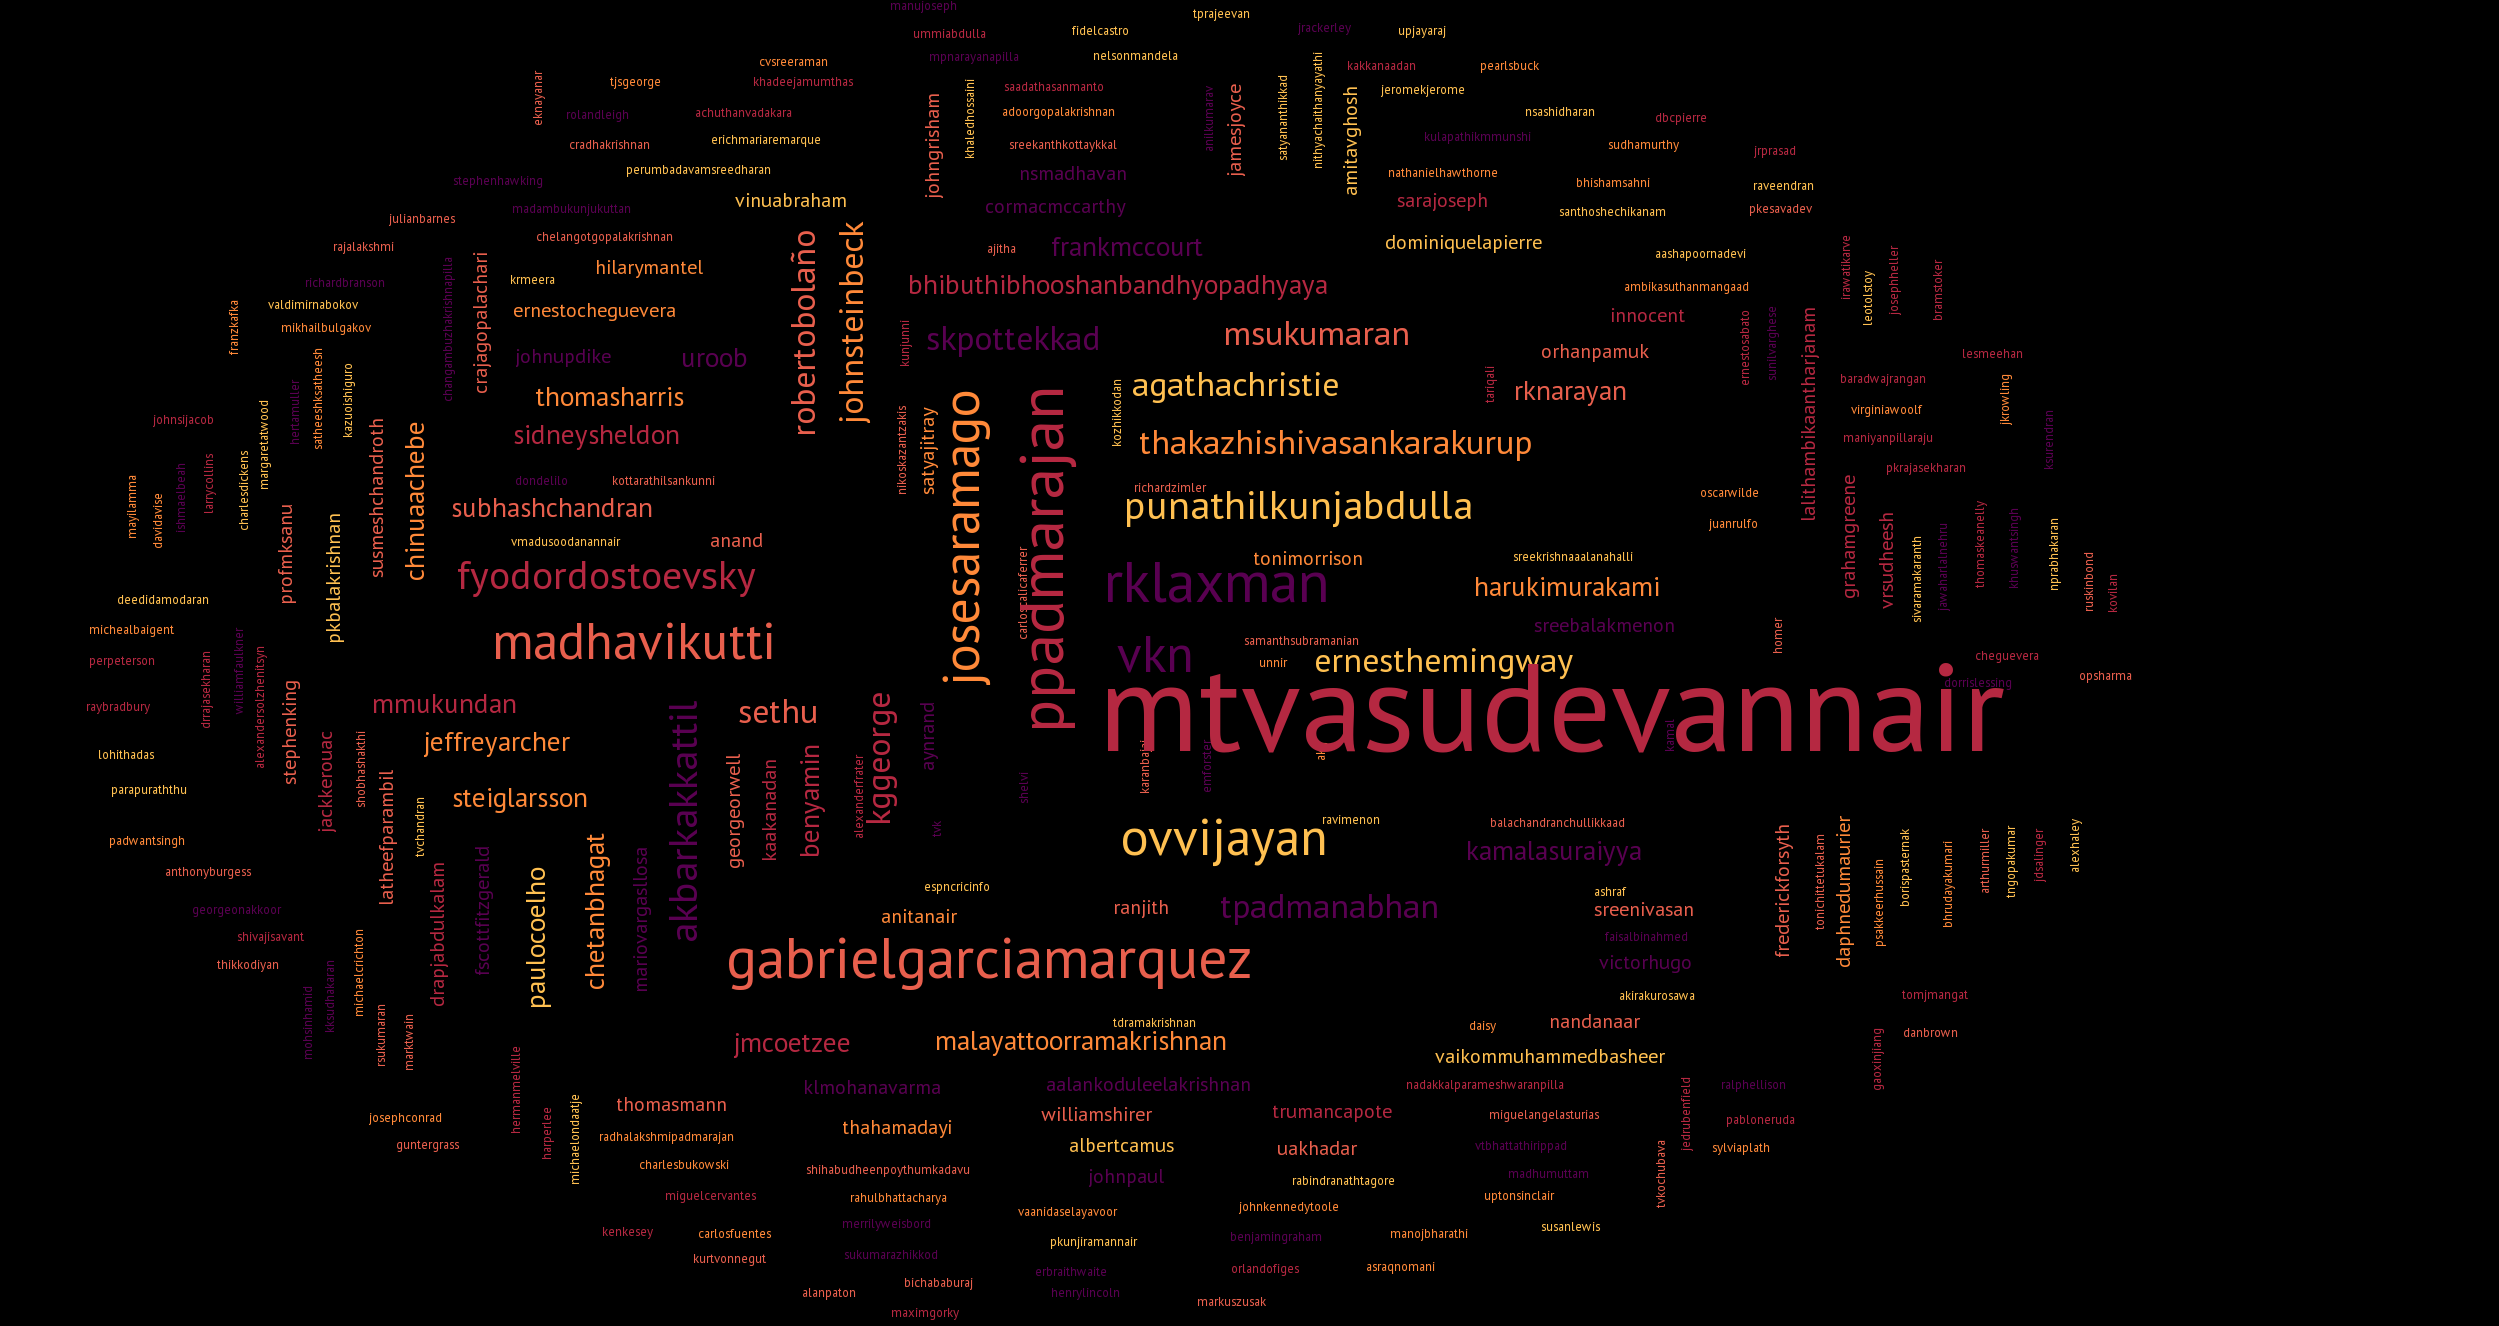
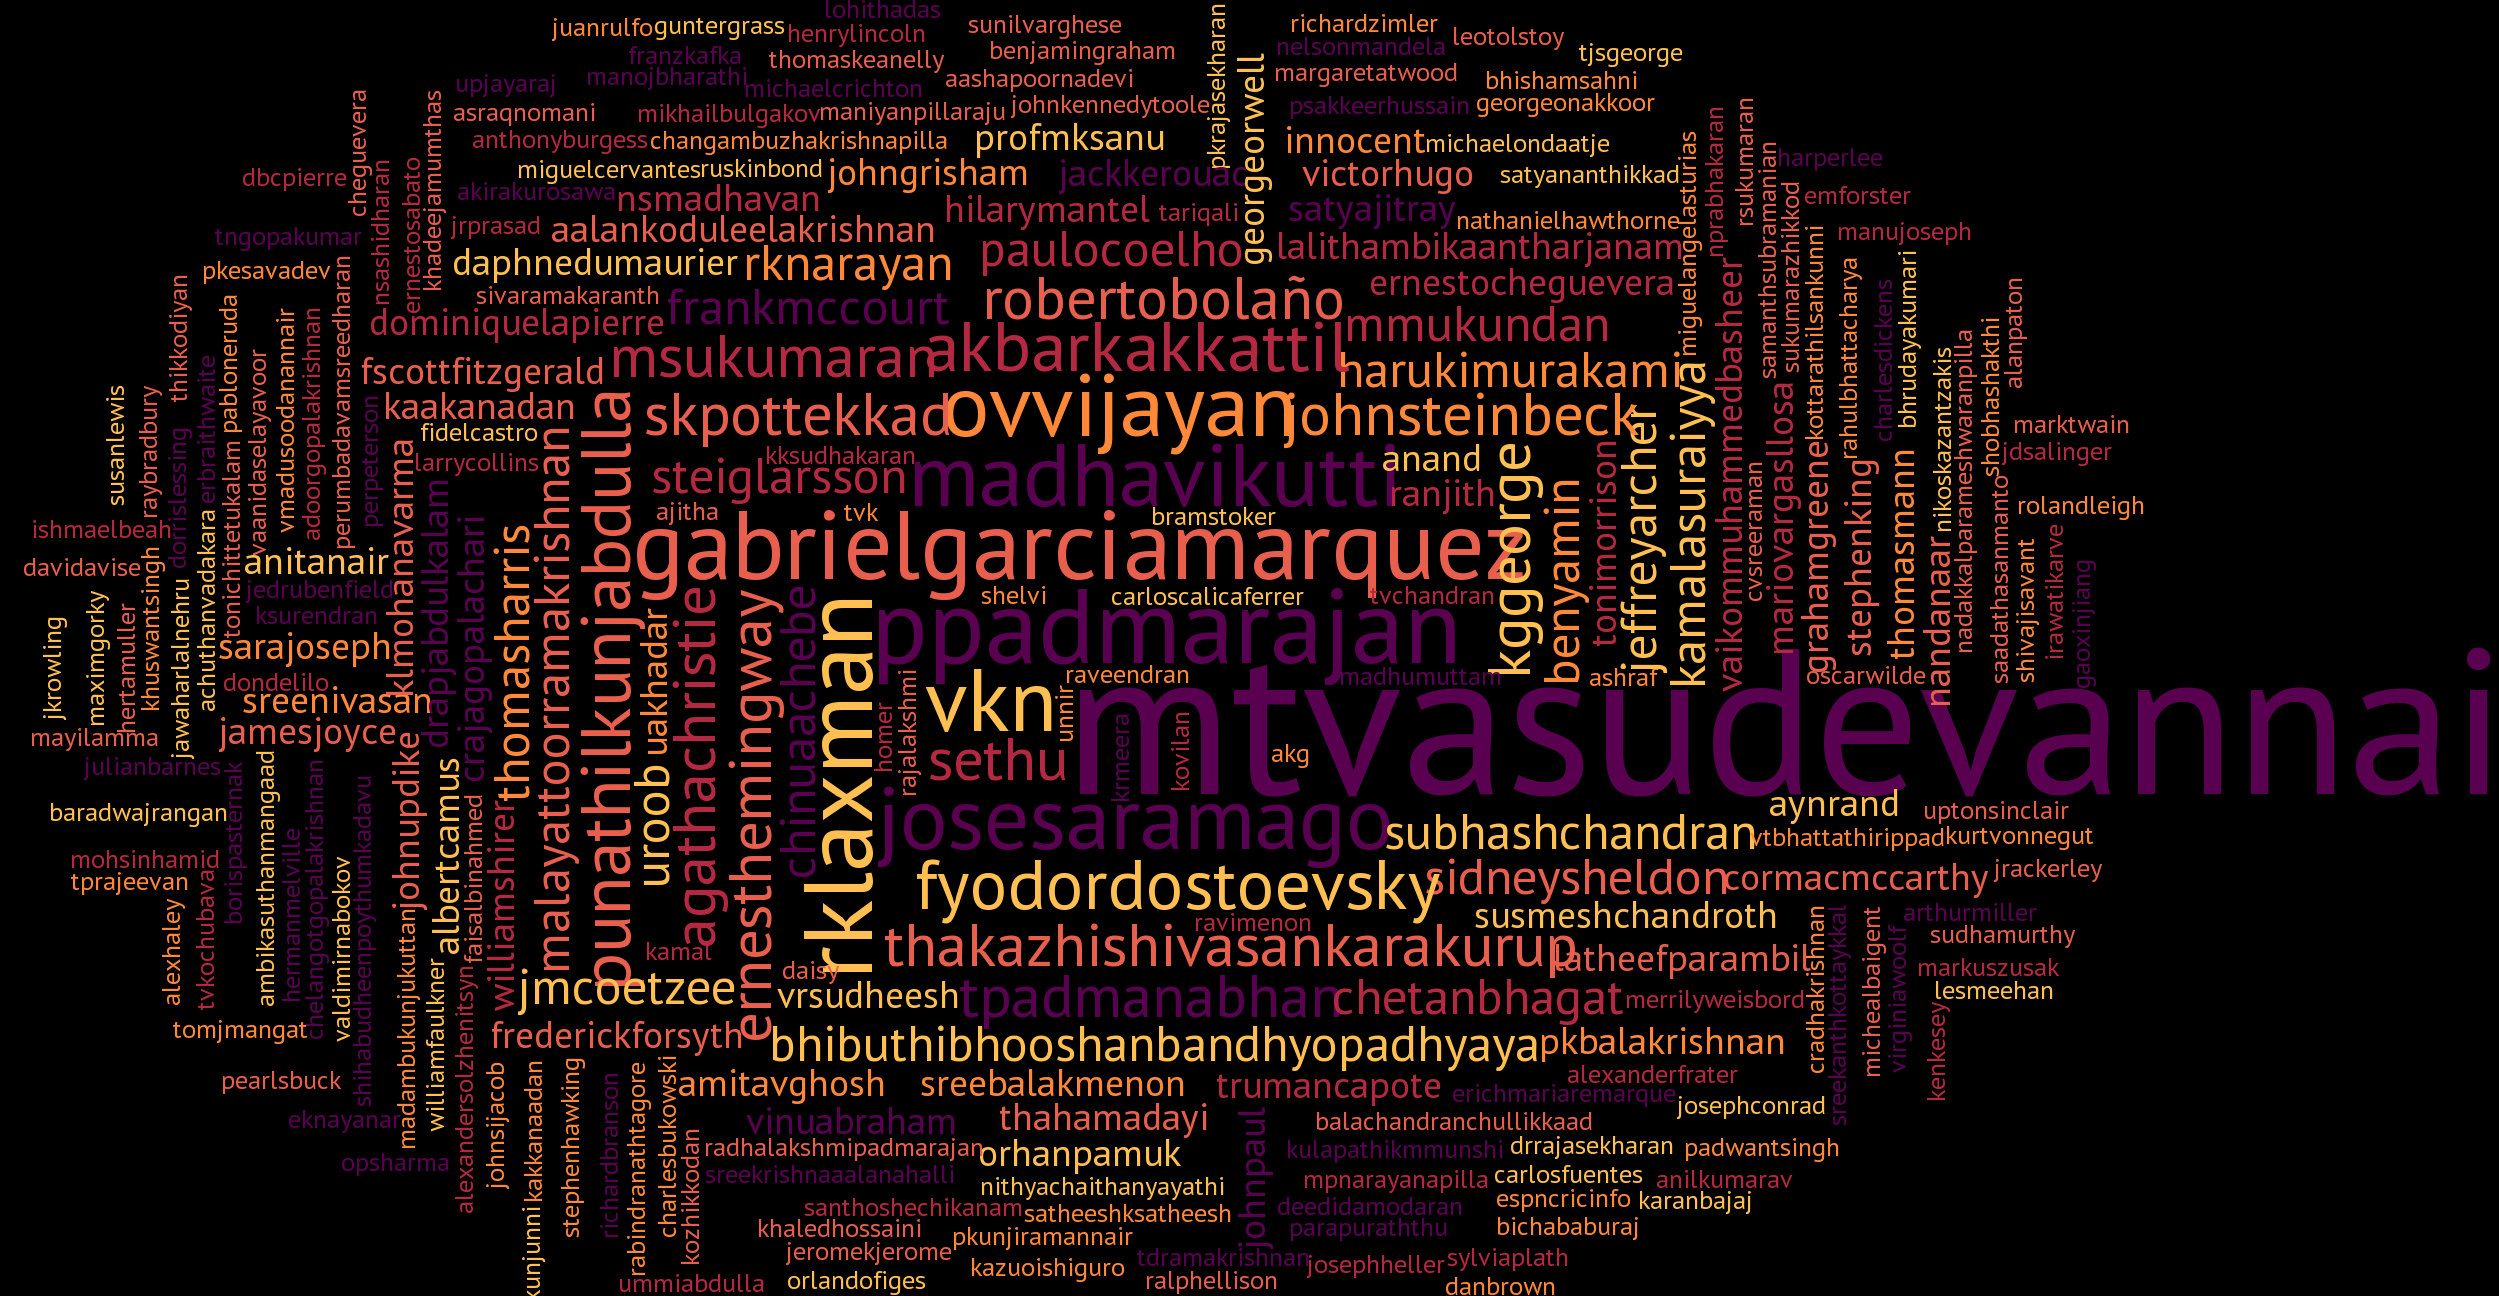
added 4 more categories

Changed region(s): [[0.0, 0.0, 0.9988, 1.0]]

diff --git a/authors.py b/authors.py
@@ -10,14 +10,22 @@ username = ''
 password = ''
 # Title of your spread sheet
 spreadsheet_title = ''
-#Custom Column Header that you want to retrieve. In my case it is author
-custom_column_header = ''
+# Custom Column Header that you want to retrieve. In my case it is author
+custom_column_header1 = 'author'
+custom_column_header2 = 'category'
+custom_column_header3 = 'publisher'
+custom_column_header4 = 'originallanguage'
+custom_column_header5= 'placeorbookstore'
 
 def main():
     client = gdata.spreadsheet.service.SpreadsheetsService()
     client.ClientLogin(username, password)
     documents_feed = client.GetSpreadsheetsFeed()
-    author = "";
+    author = ""
+    genre = ""
+    language = ""
+    publisher = ""
+    store=""
     # Loop through the feed and extract each document entry.
     for document_entry in documents_feed.entry:
       if(document_entry.title.text == spreadsheet_title):
@@ -29,14 +37,49 @@ def main():
           worksheet_id = worksheet_entry.id.text.split('/')[-1];
           rows_feed = client.GetListFeed(worksheet_key, worksheet_id)
           for row in rows_feed.entry:
-              authorname = row.custom[custom_column_header].text;
+              authorname = row.custom[custom_column_header1].text;
               if(authorname != None):
                   author = author + " " + authorname.replace(" ", "").replace(".", "")
+              
+              genre_name = row.custom[custom_column_header2].text
+              if(genre_name != None):
+                  genre = genre + " " + genre_name.replace(" ", "").replace(".", "")
+              
+              publishers = row.custom[custom_column_header3].text
+              if(publishers != None):
+                  publisher = publisher + " " + publishers.replace(" ", "").replace(".", "")
+              
+              languages = row.custom[custom_column_header4].text
+              if(languages != None):
+                  language = language + " " + languages.replace(" ", "").replace(".", "")
+              
+              bookstore = row.custom[custom_column_header5].text
+              if(bookstore != None):
+                  store = store + " " + bookstore.replace(" ", "").replace(".", "dot").replace(",", "").replace("-", "")     
+                  
       
-    print author;
+    print get_tag_counts(author);
+    print get_tag_counts(genre);
+    print get_tag_counts(publisher);
+    print get_tag_counts(language);
+    print get_tag_counts(store);
     
-    tags = make_tags(get_tag_counts(author), maxsize=120, colors=COLOR_SCHEMES['audacity'])
+    tags = make_tags(get_tag_counts(author),minsize = 10,  maxsize=200, colors=COLOR_SCHEMES['audacity'])
     create_tag_image(tags, 'authors.png', size=(2500, 1500), background=(0, 0, 0, 255), fontname='PT Sans Regular')
+     
+    tags = make_tags(get_tag_counts(genre), minsize = 10, maxsize=200, colors=COLOR_SCHEMES['oldschool'])
+    create_tag_image(tags, 'genre.png', size=(1000, 800), background=(0, 0, 0, 255), fontname='PT Sans Regular')
+     
+    tags = make_tags(get_tag_counts(publisher),minsize = 10,  maxsize=200, colors=COLOR_SCHEMES['oldschool'])
+    create_tag_image(tags, 'publisher.png', size=(2500, 1500), background=(0, 0, 0, 255), fontname='PT Sans Regular')
+     
+    tags = make_tags(get_tag_counts(language), minsize = 20, maxsize=120, colors=COLOR_SCHEMES['oldschool'])
+    create_tag_image(tags, 'language.png', size=(1500, 1200), background=(0, 0, 0, 255), fontname='PT Sans Regular')
+    
+    tags = make_tags(get_tag_counts(store), minsize = 10, maxsize=120, colors=COLOR_SCHEMES['oldschool'])
+    create_tag_image(tags, 'store.png', size=(3000, 2000), background=(0, 0, 0, 255), fontname='PT Sans Regular')
+    
+     
 
 if __name__ == "__main__":
     main();  
